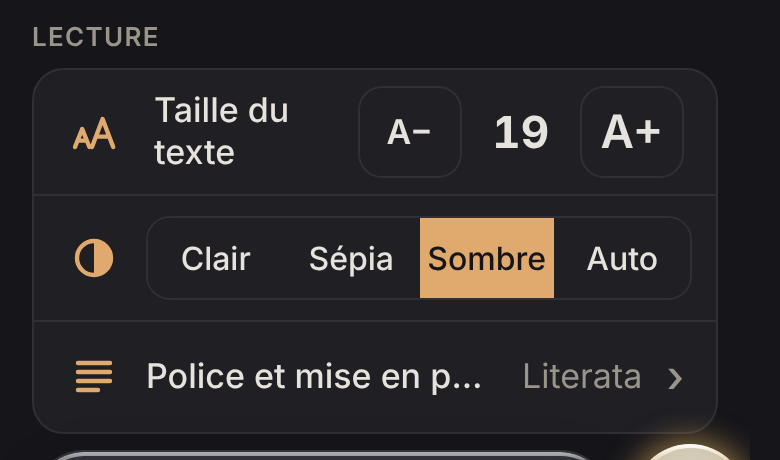
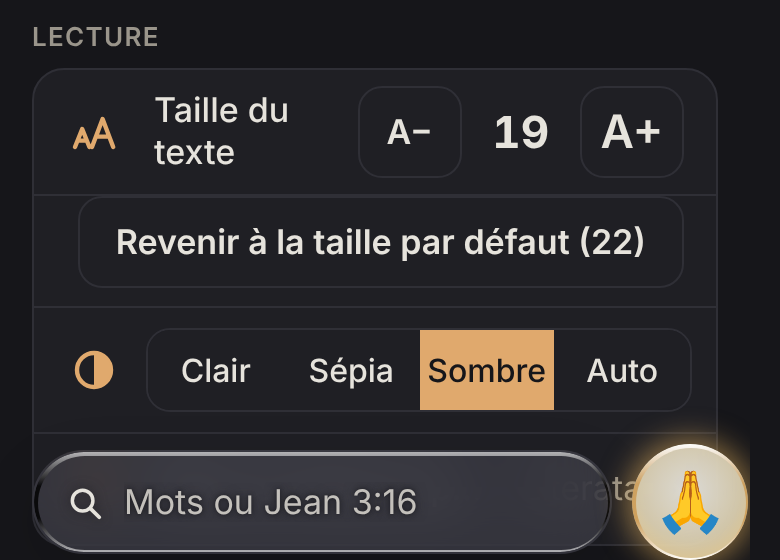
Add a Back to default size button when the text size is changed
Shows under the text size row only when the size isn't 22, the size
everyone starts on. One tap returns to it. FR and ES words included.

Claude-Session: https://claude.ai/code/session_01L1zCCMqCQfC5KmjwDQQk2C

diff --git a/src/settings.tsx b/src/settings.tsx
@@ -4,7 +4,7 @@
 // a sheet; pulling it down (or Done) goes back to the word. #/settings still
 // opens them as a page, for old links.
 import { useEffect, useRef, useState } from 'preact/hooks'
-import { defaultSettings, FONTS, go, readPath, Settings, useApp, useRoute, openTour } from './state'
+import { defaultSettings, DEFAULT_FONT_SIZE, FONTS, go, readPath, Settings, useApp, useRoute, openTour } from './state'
 import { DataTools } from './import'
 import { VersionPicker } from './ui'
 import { AddHomeIcon, BackIcon, BookIcon, BookmarkIcon, BooksIcon, CompareIcon, CompassIcon, DataIcon, GlobeIcon, InfoIcon, LayoutIcon, RefreshIcon, ReturnIcon, SpinnerIcon, SearchIcon, TextSizeIcon, ThemeIcon } from './icons'
@@ -453,6 +453,9 @@ function SettingsBody({ nav }: { nav: SettingsNav }) {
             <output class="size-num" aria-live="polite" aria-label={t('Text size') + ' ' + settings.fontSize}>{settings.fontSize}</output>
             <button class="size-btn big" onClick={() => update({ fontSize: Math.min(36, settings.fontSize + 1) })} aria-label={t('Larger text')}>A+</button>
           </div>
+          {settings.fontSize !== DEFAULT_FONT_SIZE && <div class="set-row set-static size-reset-row">
+            <button class="size-reset" onClick={() => update({ fontSize: DEFAULT_FONT_SIZE })}>{t('Back to default size ({n})', { n: DEFAULT_FONT_SIZE })}</button>
+          </div>}
           <div class="set-row set-static set-theme"><span class="set-icon" aria-hidden="true"><ThemeIcon size={24} /></span>{sel('theme', [['light', t('Light')], ['sepia', t('Sepia')], ['dark', t('Dark')], ['system', t('Auto')]])}</div>
           <Row icon={<LayoutIcon size={24} />} label={t('Font and layout')} value={fontName && t(fontName)} onClick={() => setPage('reading')} />
         </div>

diff --git a/src/state.ts b/src/state.ts
@@ -66,6 +66,9 @@ export interface Settings {
 }
 
 /** The skin tones of 🙏, plain first. */
+/** The text size everyone starts on, and the one "Back to default size" returns to. */
+export const DEFAULT_FONT_SIZE = 22
+
 export const TONES = ['', '\u{1F3FB}', '\u{1F3FC}', '\u{1F3FD}', '\u{1F3FE}', '\u{1F3FF}']
 
 const KEY = 'plain-bible:settings'
@@ -82,7 +85,7 @@ export function defaultSettings(catalog?: Catalog): Settings {
   const local = catalog?.translations.filter(t => t.lang.split('-')[0] === lang && lang !== 'en')
     .sort((a, b) => rank(a.id) - rank(b.id)).slice(0, 3).map(t => t.id) ?? []
   return {
-    language: picked ?? 'auto', theme: 'sepia', fontSize: 22, font: 'literata', searchBar: true, sideways: ['top', 'search', 'pray'], layout: 'verses', highlight: 'marker', penSlow: false, follow: 'words', readSilent: false, verseNumbers: 'medium', turn: 'stack', spread: 'double', prayTone: '', noteReminders: true, streaks: true, shareStreaks: [], strongs: false, strongsNumbers: false,
+    language: picked ?? 'auto', theme: 'sepia', fontSize: DEFAULT_FONT_SIZE, font: 'literata', searchBar: true, sideways: ['top', 'search', 'pray'], layout: 'verses', highlight: 'marker', penSlow: false, follow: 'words', readSilent: false, verseNumbers: 'medium', turn: 'stack', spread: 'double', prayTone: '', noteReminders: true, streaks: true, shareStreaks: [], strongs: false, strongsNumbers: false,
     myVersions: ['BSB', 'NHEB', 'KJV', 'ASV', 'DRC', 'YLT', ...local, 'OSHB', 'StatResGNT'],
     version: local[0] ?? 'KJV', parallel: [], searchVersions: [local[0] ?? 'KJV'],
     searchOptions: { caseSensitive: false, accentSensitive: false, partialWords: false },

diff --git a/src/styles.css b/src/styles.css
@@ -581,6 +581,8 @@ mark.hl-part { color: inherit; background: color-mix(in srgb, var(--hl) var(--hl
 .size-row { gap: 8px; }
 .size-row .set-icon { margin-right: 4px; }
 .size-row .set-label { white-space: normal; line-height: 1.2; }
+.size-reset-row { padding-top: 0; justify-content: flex-end; }
+.size-reset { min-height: 46px; padding: 0 18px; border-radius: 12px; font: 600 17px var(--sans); }
 .size-num { min-width: 1.6em; text-align: center; font: 700 22px var(--sans); font-variant-numeric: tabular-nums; flex: none; }
 .set-theme { padding: 10px 12px 10px 16px; }
 .set-theme .seg { display: flex; flex: 1; border-radius: 12px; }

diff --git a/src/i18n/fr.ts b/src/i18n/fr.ts
@@ -1004,4 +1004,5 @@ export default {
   "Definitions from Wiktionary (CC BY-SA).": "Définitions tirées du Wiktionnaire (CC BY-SA).",
   "A form of “{word}”": "Une forme de « {word} »",
   "Word definitions from {source} (CC BY-SA), through {kaikki}.": "Définitions des mots tirées du {source} (CC BY-SA), par {kaikki}.",
+  "Back to default size ({n})": "Revenir à la taille par défaut ({n})",
 } as Record<string, string>

diff --git a/src/i18n/es.ts b/src/i18n/es.ts
@@ -1004,4 +1004,5 @@ export default {
   "Definitions from Wiktionary (CC BY-SA).": "Definiciones de Wikcionario (CC BY-SA).",
   "A form of “{word}”": "Una forma de «{word}»",
   "Word definitions from {source} (CC BY-SA), through {kaikki}.": "Definiciones de palabras de {source} (CC BY-SA), a través de {kaikki}.",
+  "Back to default size ({n})": "Volver al tamaño normal ({n})",
 } as Record<string, string>
